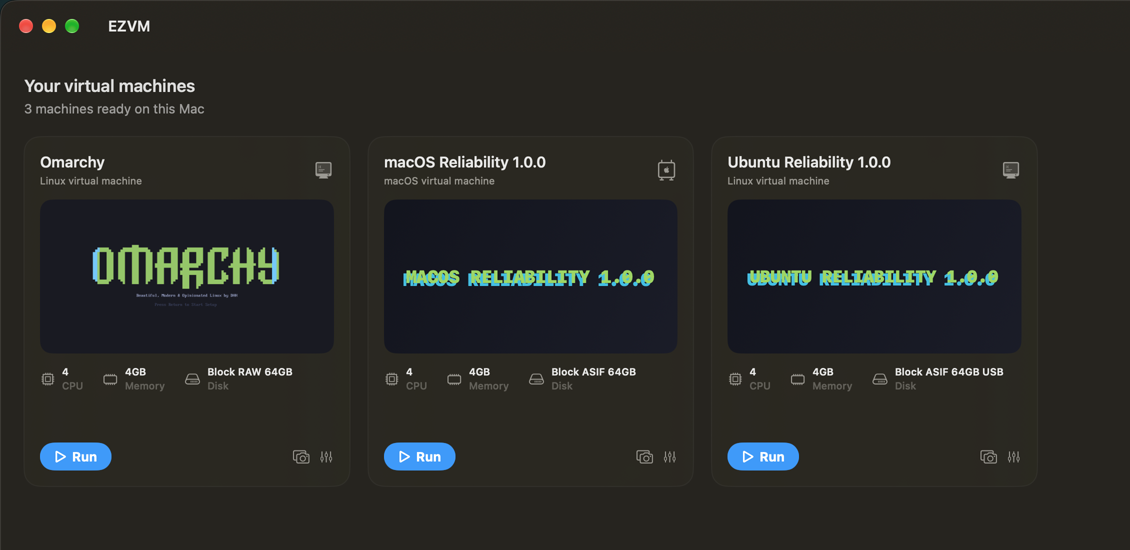
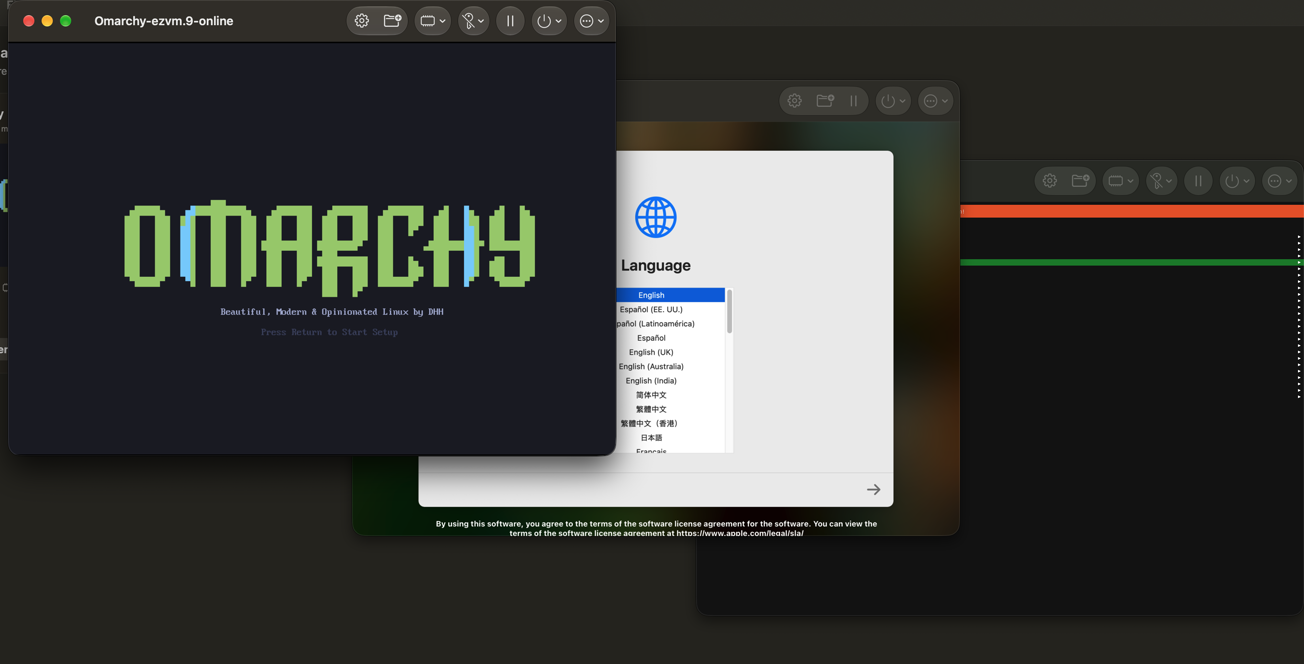
Show three running guest systems

diff --git a/docs/index.html b/docs/index.html
@@ -79,8 +79,8 @@
       <p class="eyebrow">The current app</p>
       <h2 id="screenshots-title">Run macOS and Linux. Side by side.</h2>
       <figure class="runtime-shot">
-        <img src="assets/ezvm-linux-macos-running.webp?v=1.0.0" width="1130" height="550" loading="lazy" decoding="async" alt="EZVM library with Omarchy, macOS, and Ubuntu virtual machines ready side by side">
-        <figcaption><strong>Three systems, one native app.</strong> Omarchy, macOS, and Ubuntu are ready side by side in one focused library.</figcaption>
+        <img src="assets/ezvm-linux-macos-running.webp?v=1.0.0" width="1304" height="664" loading="lazy" decoding="async" alt="EZVM running Omarchy, macOS, and Ubuntu virtual machines together in layered native windows">
+        <figcaption><strong>Three systems, one native app.</strong> Run Omarchy, macOS, and Ubuntu together in responsive native virtual machine windows.</figcaption>
       </figure>
       <div class="screenshot-grid">
         <figure>

diff --git a/README.md b/README.md
@@ -17,7 +17,7 @@ EZVM uses Apple's [`Virtualization.framework`](https://developer.apple.com/docum
 
 ## Screenshots
 
-![EZVM library with Omarchy, macOS, and Ubuntu virtual machines ready side by side](./Assets/screenshot1.png)
+![EZVM running Omarchy, macOS, and Ubuntu virtual machines together in layered native windows](./Assets/screenshot1.png)
 
 <p align="center">
   <img src="./Assets/screenshot2.png" width="58%" alt="EZVM randomly naming a virtual machine Saturn and saving it under EZVM Virtual Machines">
